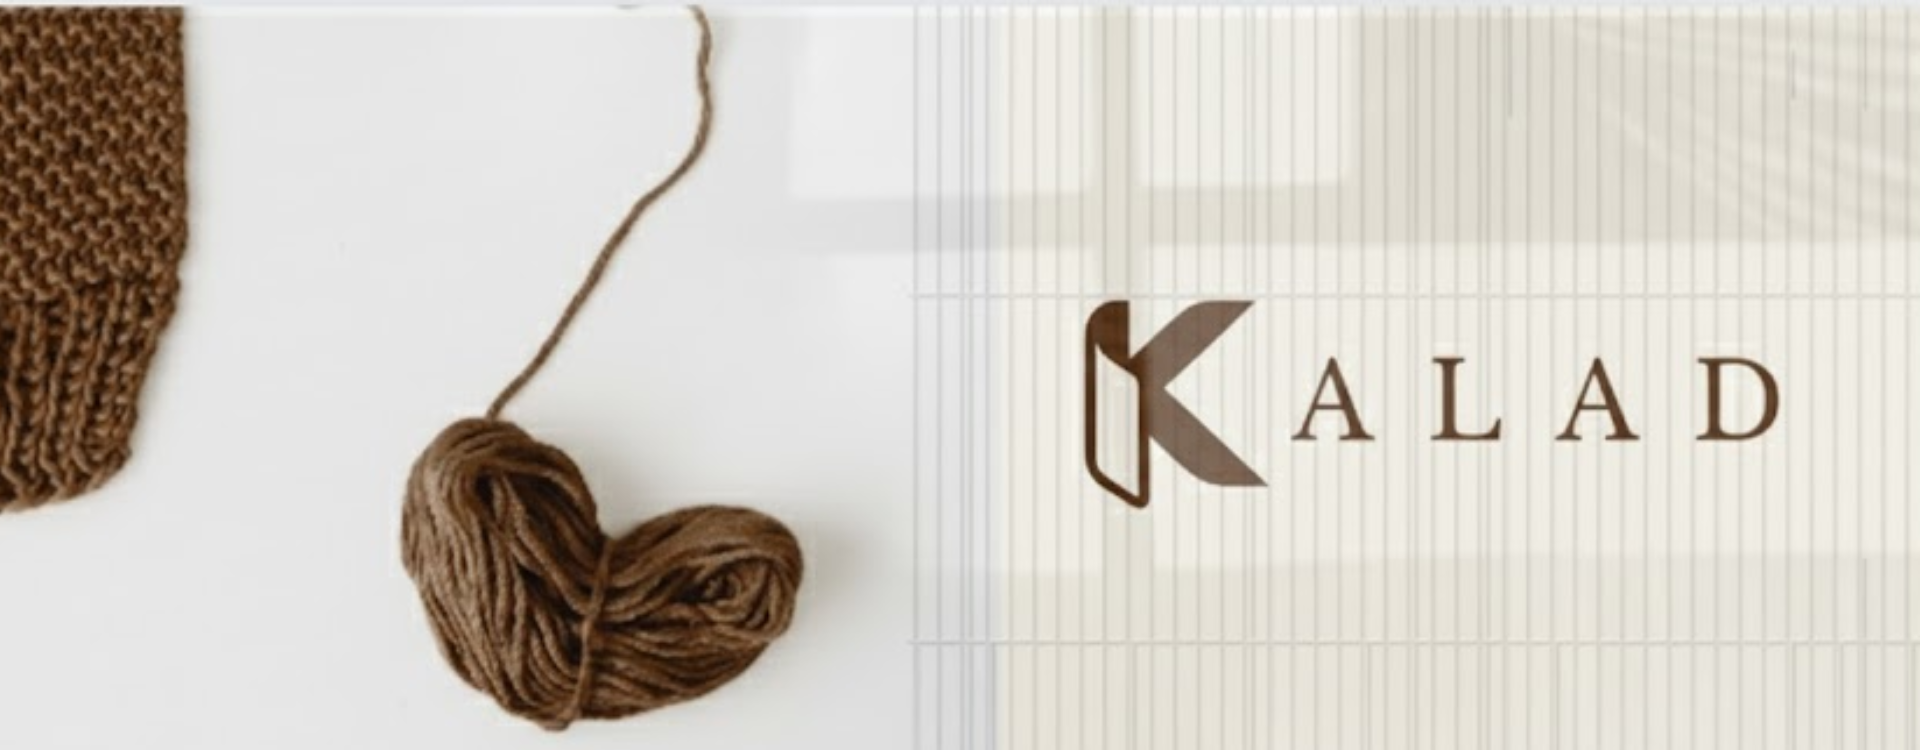
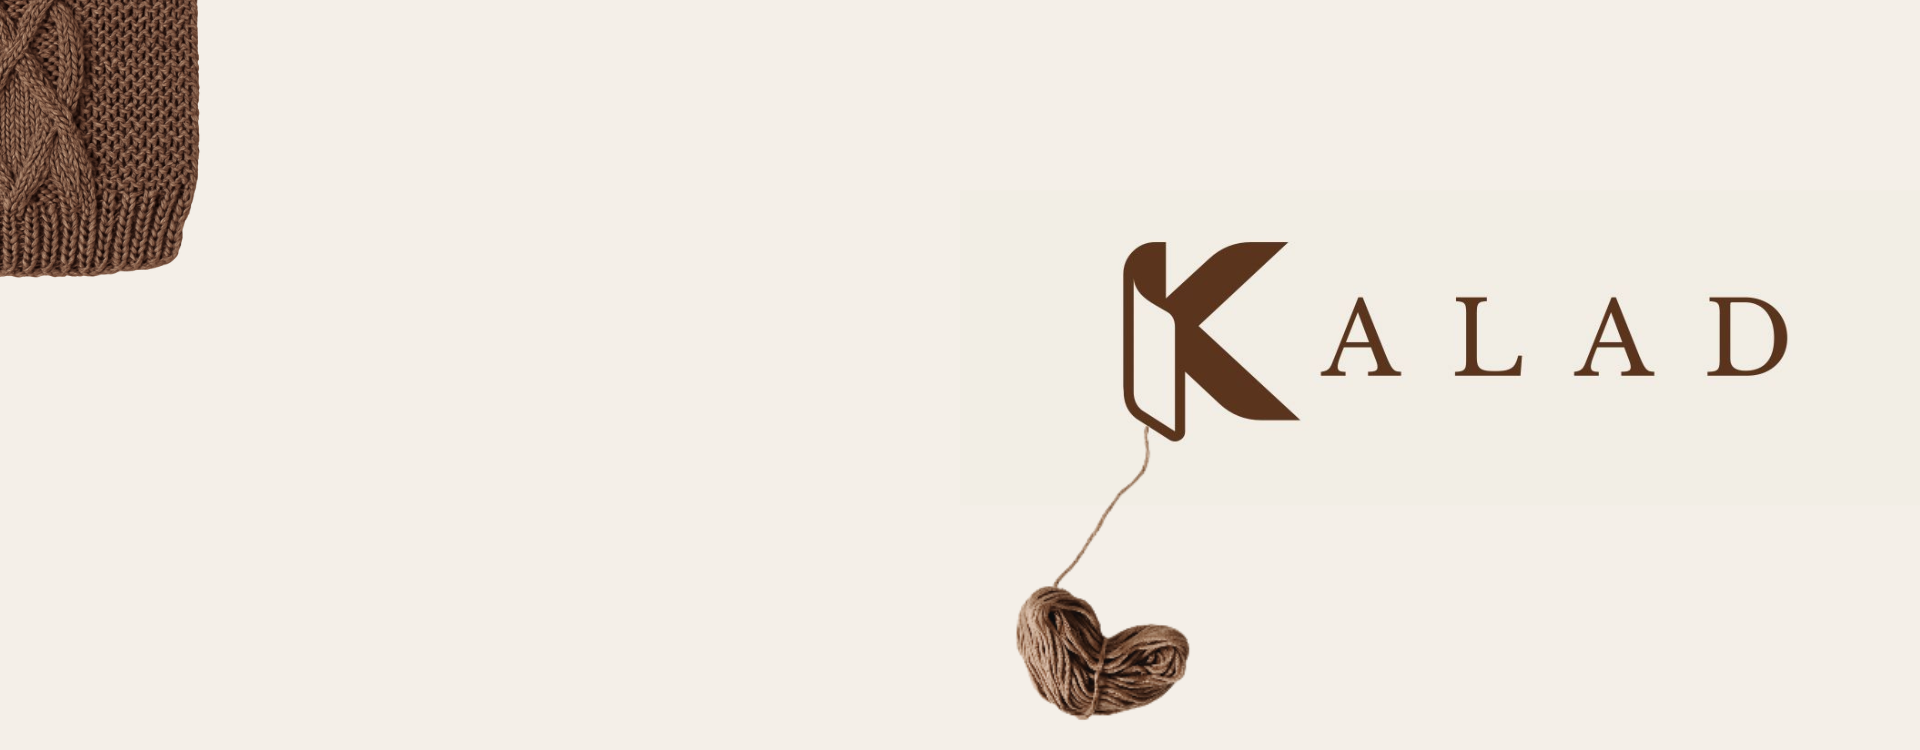
mensaje

Changed region(s): [[0.1875, 0.0, 1.0, 1.0], [0.0, 0.0, 0.125, 0.7053], [0.8438, 0.9813, 0.875, 1.0]]

diff --git a/src/app/features/home/home-page.component.html b/src/app/features/home/home-page.component.html
@@ -1,8 +1,8 @@
-<section class="kalad-hero">
+<section class="kalad-hero">
   <div class="hero-overlay">
     <h1>KALAD ORIGEN</h1>
     <p>El origen de una nueva elegancia.</p>
-    <button class="btn-hero" id="btn-hero">EXPLORAR COLECCION</button>
+    <button class="btn-hero" id="btn-hero">EXPLORAR COLECCI&#211;N</button>
   </div>
 </section>
 
@@ -109,18 +109,21 @@
 </section>
 
 <section class="raices-section">
-  <h2>Explora nuestras raices</h2>
+  <h2>Explora nuestras ra&#237;ces</h2>
   <div class="raices-grid">
     <div class="raiz-item">
       <img src="/assets/images/Producto_1.jpg" alt="KALAD ORIGEN" class="img-kalad-aire" />
       <h3>KALAD ORIGEN</h3>
-      <a routerLink="/collections" class="link">Explorar coleccion <span>»</span></a>
+      <a routerLink="/collections" class="link">EXPLORAR COLECCI&#211;N <span>></span></a>
     </div>
 
     <div class="raiz-item">
       <img src="/assets/images/KALAD-ORIGEN.jpeg" alt="KALAD ESSENCIA" class="img-kalad-origen" />
       <h3>KALAD ESSENCIA</h3>
-      <a routerLink="/collections" class="link">Explorar coleccion <span>»</span></a>
+      <a routerLink="/collections" class="link">EXPLORAR COLECCI&#211;N <span>></span></a>
     </div>
   </div>
 </section>
+
+
+

diff --git a/src/app/app.component.css b/src/app/app.component.css
@@ -1,0 +1,37 @@
+/* Botón flotante de WhatsApp para soporte */
+.floating-whatsapp {
+  position: fixed;
+  bottom: 96px;
+  right: 22px;
+  display: inline-flex;
+  align-items: center;
+  gap: 8px;
+  padding: 12px 14px;
+  background: #25d366;
+  color: #fff;
+  border-radius: 999px;
+  text-decoration: none;
+  box-shadow: 0 12px 32px rgba(0, 0, 0, 0.2);
+  font-weight: 700;
+  z-index: 50;
+  transition: transform 0.2s ease, box-shadow 0.2s ease, background 0.2s ease;
+}
+
+.floating-whatsapp i {
+  font-size: 20px;
+}
+
+.floating-whatsapp:hover {
+  transform: translateY(-2px);
+  box-shadow: 0 14px 40px rgba(0, 0, 0, 0.25);
+  background: #1ebe5d;
+}
+
+@media (max-width: 768px) {
+  .floating-whatsapp {
+    bottom: 80px;
+    right: 16px;
+    padding: 11px 13px;
+    font-size: 14px;
+  }
+}

diff --git a/src/app/app.component.html b/src/app/app.component.html
@@ -1,6 +1,17 @@
 <app-header />
 <router-outlet />
 <app-footer />
+<!-- Botón flotante de soporte por WhatsApp -->
+<a
+  class="floating-whatsapp"
+  href="https://wa.me/573233333333?text=Hola%20Kalad,%20quiero%20una%20asesor%C3%ADa%20personalizada%20de%20compra."
+  target="_blank"
+  rel="noopener noreferrer"
+  aria-label="Chatear por WhatsApp con un asesor de Kalad"
+>
+  <i class="fa-brands fa-whatsapp"></i>
+  <span>Asesor en línea</span>
+</a>
 <link
   rel="stylesheet"
   href="https://cdnjs.cloudflare.com/ajax/libs/font-awesome/6.5.0/css/all.min.css"

diff --git a/src/app/features/collections/collections.component.html b/src/app/features/collections/collections.component.html
@@ -4,7 +4,7 @@
 
     <a routerLink="/collections/origen">
         <div class="coleccion-banner">
-            <img src="/assets/images/Banner_colecciones_kaladorigen.png" alt="Kalad Origen" />
+            <img src="/assets/images/Banner_colecciones_kaladorigen.webp" alt="Kalad Origen" />
             <h2>KALAD ORIGEN</h2>
         </div>
     </a>

diff --git a/src/app/shared/components/footer/footer.component.html b/src/app/shared/components/footer/footer.component.html
@@ -32,6 +32,7 @@
             <h4>Contacto</h4>
             <p>contacto&#64;kalad.com.co</p>
             <p>+57 3233333333</p>
+            <p>Horarios: Lun - Sáb, 9:00 AM - 6:00 PM</p>
 
             <div class="social-icons">
                 <a href="#"><i class="fab fa-facebook-f"></i></a>
